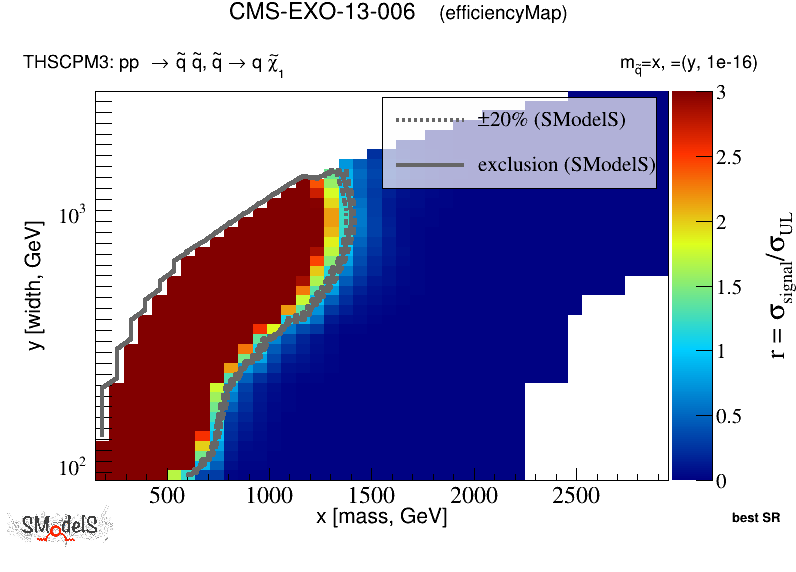
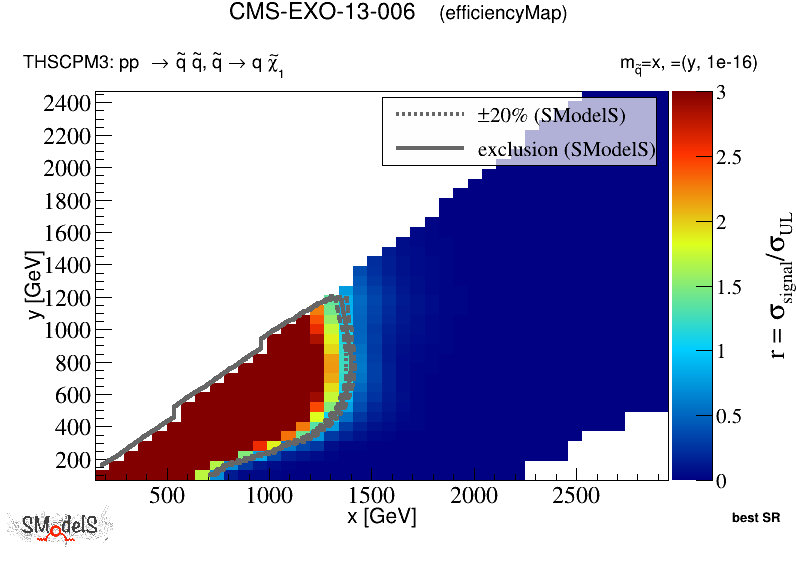
redid m5

diff --git a/docs/Validation200widths.md b/docs/Validation200widths.md
@@ -41,9 +41,9 @@ The validation procedure for upper limit maps used here is explained in [arXiv:1
 | | [THSCPM7](SmsDictionary200widths#THSCPM7)| 18.8|  | <img src="https://smodels.github.io/pics/new.png" /> in 2.0.0widths!  |
 | | [THSCPM8](SmsDictionary200widths#THSCPM8)| 18.8|<a href="https://smodels.github.io/validation/200widths/8TeV/CMS/CMS-EXO-13-006-andre/validation/THSCPM8_2EqMassAx_EqMassBy_pretty.png"><img src="https://smodels.github.io/validation/200widths/8TeV/CMS/CMS-EXO-13-006-andre/validation/THSCPM8_2EqMassAx_EqMassBy_pretty.png" /></a>  | <img src="https://smodels.github.io/pics/new.png" /> in 2.0.0widths!  |
 | [CMS-EXO-13-006](http://cms-results.web.cern.ch/cms-results/public-results/publications/EXO-13-006/index.html)| [THSCPM1b](SmsDictionary200widths#THSCPM1b)| 18.8|<a href="https://smodels.github.io/validation/200widths/8TeV/CMS/CMS-EXO-13-006-eff/validation/THSCPM1b_2EqMassAx_EqWidthAy_pretty.png"><img src="https://smodels.github.io/validation/200widths/8TeV/CMS/CMS-EXO-13-006-eff/validation/THSCPM1b_2EqMassAx_EqWidthAy_pretty.png" /></a>  | |
-| | [THSCPM3](SmsDictionary200widths#THSCPM3)| 18.8|<a href="https://smodels.github.io/validation/200widths/8TeV/CMS/CMS-EXO-13-006-eff/validation/THSCPM3_2EqMassAx_EqMassBy_EqWidthB1e-17_pretty.png"><img src="https://smodels.github.io/validation/200widths/8TeV/CMS/CMS-EXO-13-006-eff/validation/THSCPM3_2EqMassAx_EqMassBy_EqWidthB1e-17_pretty.png" /></a><BR><a href="https://smodels.github.io/validation/200widths/8TeV/CMS/CMS-EXO-13-006-eff/validation/THSCPM3_2EqMassAx_EqMassBy_EqWidthB1e-16_pretty.png"><img src="https://smodels.github.io/validation/200widths/8TeV/CMS/CMS-EXO-13-006-eff/validation/THSCPM3_2EqMassAx_EqMassBy_EqWidthB1e-16_pretty.png" /></a>  | |
+| | [THSCPM3](SmsDictionary200widths#THSCPM3)| 18.8|<a href="https://smodels.github.io/validation/200widths/8TeV/CMS/CMS-EXO-13-006-eff/validation/THSCPM3_2EqMassAx_EqMassBy_EqWidthB1e-16_pretty.png"><img src="https://smodels.github.io/validation/200widths/8TeV/CMS/CMS-EXO-13-006-eff/validation/THSCPM3_2EqMassAx_EqMassBy_EqWidthB1e-16_pretty.png" /></a>  | |
 | | [THSCPM5](SmsDictionary200widths#THSCPM5)| 18.8|<a href="https://smodels.github.io/validation/200widths/8TeV/CMS/CMS-EXO-13-006-eff/validation/THSCPM5_2EqMassAx_EqMassBx-100_EqMassCy_EqWidthC1e-16_pretty.png"><img src="https://smodels.github.io/validation/200widths/8TeV/CMS/CMS-EXO-13-006-eff/validation/THSCPM5_2EqMassAx_EqMassBx-100_EqMassCy_EqWidthC1e-16_pretty.png" /></a>  | |
 | | [THSCPM6](SmsDictionary200widths#THSCPM6)| 18.8|<a href="https://smodels.github.io/validation/200widths/8TeV/CMS/CMS-EXO-13-006-eff/validation/THSCPM6_2EqMassAx_EqMassBx_EqMassCy_EqWidthC1e-16_pretty.png"><img src="https://smodels.github.io/validation/200widths/8TeV/CMS/CMS-EXO-13-006-eff/validation/THSCPM6_2EqMassAx_EqMassBx_EqMassCy_EqWidthC1e-16_pretty.png" /></a>  | |
 | | [THSCPM8](SmsDictionary200widths#THSCPM8)| 18.8|<a href="https://smodels.github.io/validation/200widths/8TeV/CMS/CMS-EXO-13-006-eff/validation/THSCPM8_2EqMassAx_EqMassBy_EqWidthB1e-16_pretty.png"><img src="https://smodels.github.io/validation/200widths/8TeV/CMS/CMS-EXO-13-006-eff/validation/THSCPM8_2EqMassAx_EqMassBy_EqWidthB1e-16_pretty.png" /></a>  | |
 
-This page was created Wed Nov  6 19:42:57 2019
+This page was created Wed Nov  6 20:25:02 2019

diff --git a/docs/ValidationUgly200widths.md b/docs/ValidationUgly200widths.md
@@ -44,9 +44,9 @@ To [official validation plots](Validation200widths)
 | | [THSCPM7](SmsDictionary200widths#THSCPM7)| 18.8| n/a |  | <img src="https://smodels.github.io/pics/new.png" /> in 2.0.0widths!  |
 | | [THSCPM8](SmsDictionary200widths#THSCPM8)| 18.8| n/a |<a href="https://smodels.github.io/validation/200widths/8TeV/CMS/CMS-EXO-13-006-andre/validation/THSCPM8_2EqMassAx_EqMassBy.png"><img src="https://smodels.github.io/validation/200widths/8TeV/CMS/CMS-EXO-13-006-andre/validation/THSCPM8_2EqMassAx_EqMassBy.png" /></a>  | <img src="https://smodels.github.io/pics/new.png" /> in 2.0.0widths!  |
 | [CMS-EXO-13-006](http://cms-results.web.cern.ch/cms-results/public-results/publications/EXO-13-006/index.html)| [THSCPM1b](SmsDictionary200widths#THSCPM1b)| 18.8| tbd |<a href="https://smodels.github.io/validation/200widths/8TeV/CMS/CMS-EXO-13-006-eff/validation/THSCPM1b_2EqMassAx_EqWidthAy.png"><img src="https://smodels.github.io/validation/200widths/8TeV/CMS/CMS-EXO-13-006-eff/validation/THSCPM1b_2EqMassAx_EqWidthAy.png" /></a>  | |
-| | [THSCPM3](SmsDictionary200widths#THSCPM3)| 18.8| tbd |<a href="https://smodels.github.io/validation/200widths/8TeV/CMS/CMS-EXO-13-006-eff/validation/THSCPM3_2EqMassAx_EqMassBy_EqWidthB1e-17.png"><img src="https://smodels.github.io/validation/200widths/8TeV/CMS/CMS-EXO-13-006-eff/validation/THSCPM3_2EqMassAx_EqMassBy_EqWidthB1e-17.png" /></a><BR><a href="https://smodels.github.io/validation/200widths/8TeV/CMS/CMS-EXO-13-006-eff/validation/THSCPM3_2EqMassAx_EqMassBy_EqWidthB1e-16.png"><img src="https://smodels.github.io/validation/200widths/8TeV/CMS/CMS-EXO-13-006-eff/validation/THSCPM3_2EqMassAx_EqMassBy_EqWidthB1e-16.png" /></a>  | |
+| | [THSCPM3](SmsDictionary200widths#THSCPM3)| 18.8| tbd |<a href="https://smodels.github.io/validation/200widths/8TeV/CMS/CMS-EXO-13-006-eff/validation/THSCPM3_2EqMassAx_EqMassBy_EqWidthB1e-16.png"><img src="https://smodels.github.io/validation/200widths/8TeV/CMS/CMS-EXO-13-006-eff/validation/THSCPM3_2EqMassAx_EqMassBy_EqWidthB1e-16.png" /></a>  | |
 | | [THSCPM5](SmsDictionary200widths#THSCPM5)| 18.8| tbd |<a href="https://smodels.github.io/validation/200widths/8TeV/CMS/CMS-EXO-13-006-eff/validation/THSCPM5_2EqMassAx_EqMassBx-100_EqMassCy_EqWidthC1e-16.png"><img src="https://smodels.github.io/validation/200widths/8TeV/CMS/CMS-EXO-13-006-eff/validation/THSCPM5_2EqMassAx_EqMassBx-100_EqMassCy_EqWidthC1e-16.png" /></a>  | |
 | | [THSCPM6](SmsDictionary200widths#THSCPM6)| 18.8| tbd |  | |
 | | [THSCPM8](SmsDictionary200widths#THSCPM8)| 18.8| tbd |<a href="https://smodels.github.io/validation/200widths/8TeV/CMS/CMS-EXO-13-006-eff/validation/THSCPM8_2EqMassAx_EqMassBy_EqWidthB1e-16.png"><img src="https://smodels.github.io/validation/200widths/8TeV/CMS/CMS-EXO-13-006-eff/validation/THSCPM8_2EqMassAx_EqMassBy_EqWidthB1e-16.png" /></a>  | |
 
-This page was created Wed Nov  6 19:43:23 2019
+This page was created Wed Nov  6 20:25:25 2019
